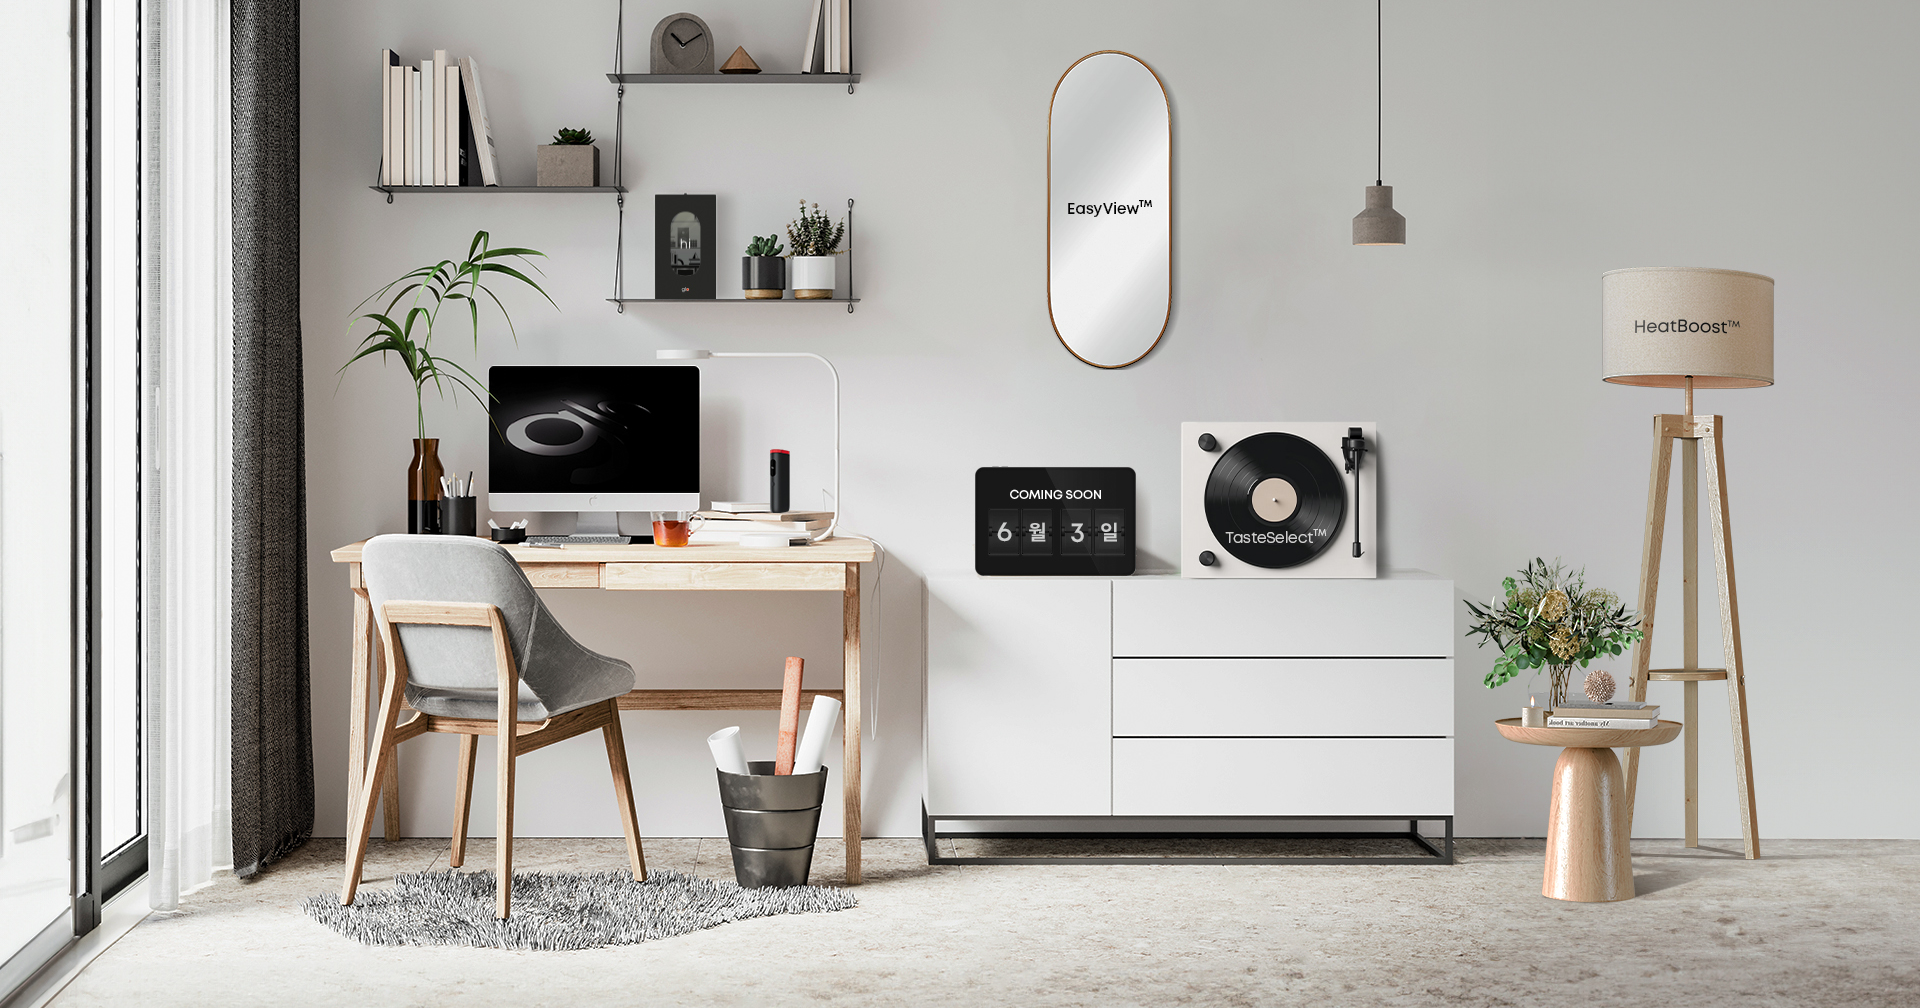
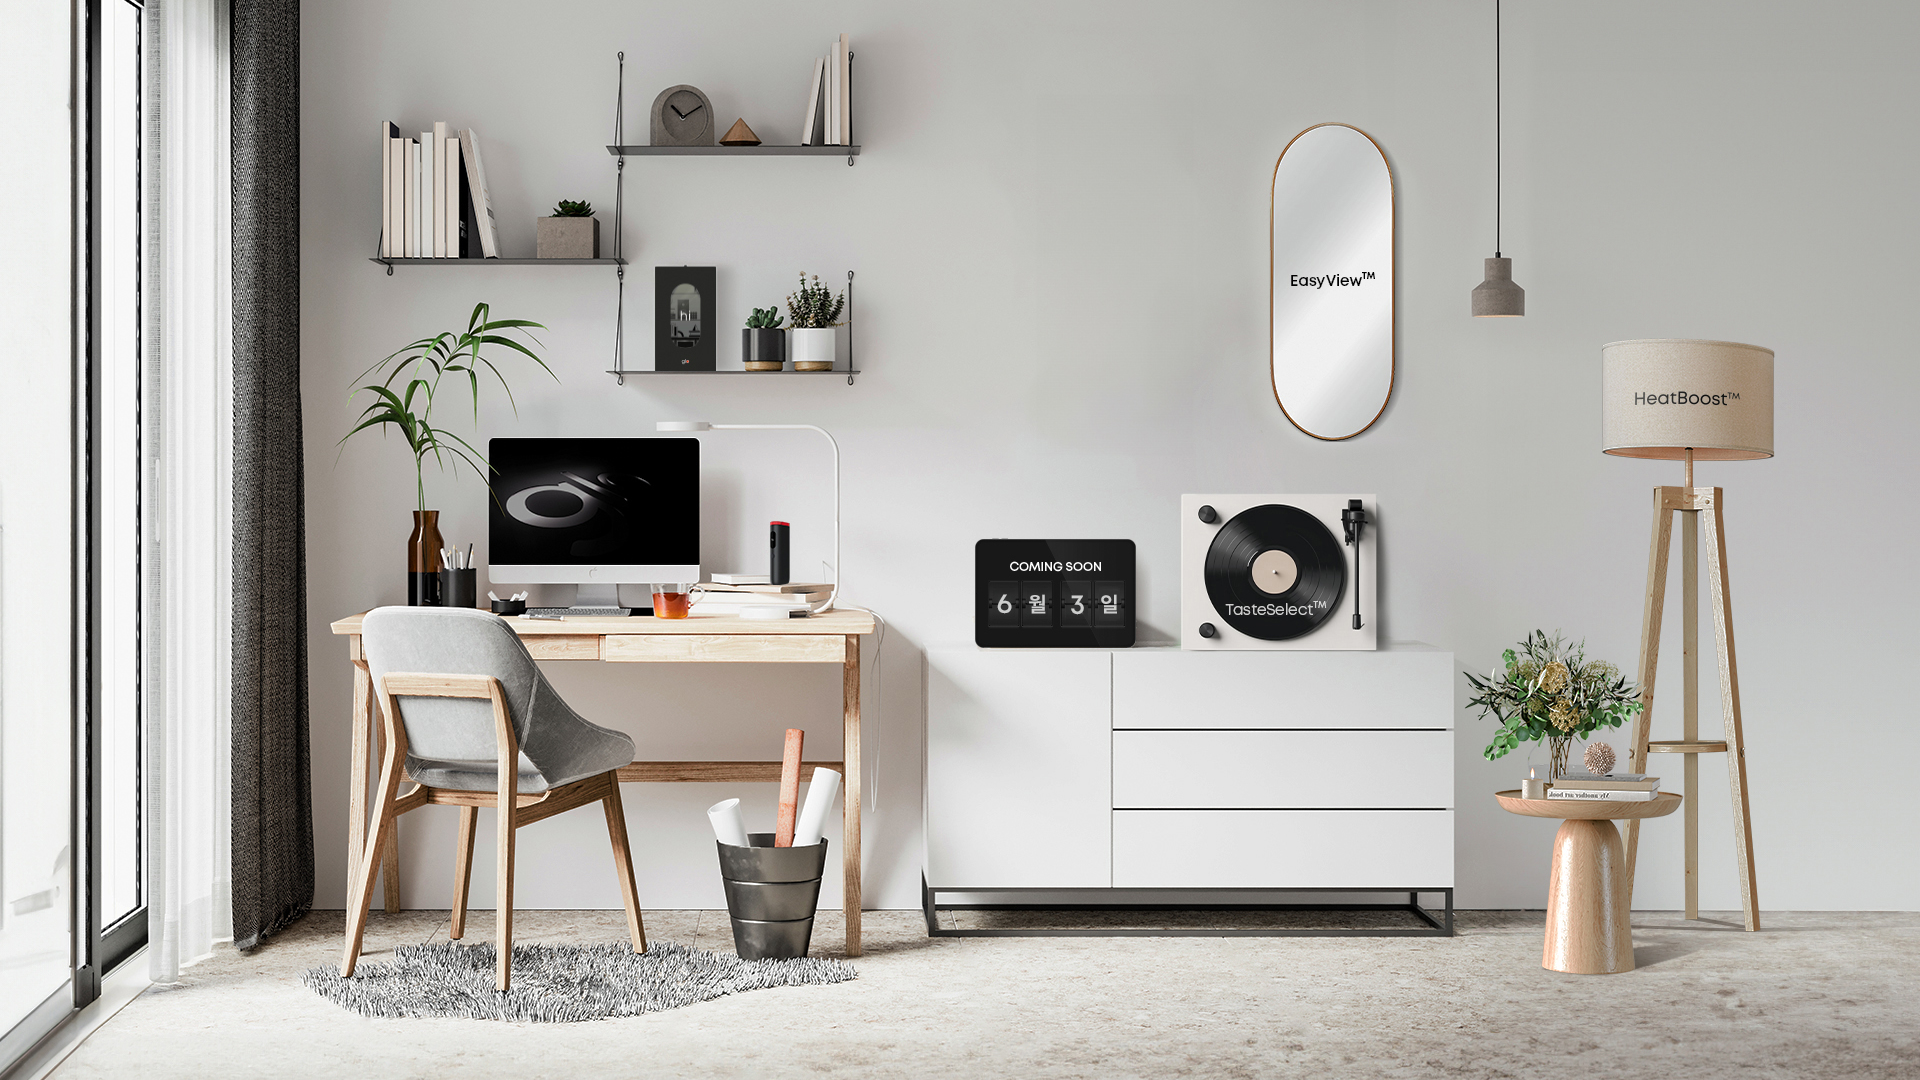
이미지수정, 안드터치안되는거 수정, 돌아가기 버튼 추가

diff --git a/css/style.css b/css/style.css
@@ -49,13 +49,22 @@ body {
     }
 
 main{
-    position: relative;
+    /* position: relative; */
     width: 100vw;
     height: 100vh;
+}
+.main_wrap{
+    text-align: center;
+    position: absolute;
+    top: 0;
+    right: 0;
+    bottom: 0;
+    left: 0;
 }
 main img{
     width: 100%;
     height: 100%;
+    object-fit: cover;
 }
 
 .title{
@@ -73,6 +82,7 @@ main img{
 
 }
 #spotlight {
+    touch-action: none;
     position: fixed;
     top: 0;
     left: 0;
@@ -91,18 +101,23 @@ main img{
 
     -webkit-mask-composite: destination-out;
     mask-composite: exclude;
+    
 }
 #spotlight.all{
     opacity: 0;
     transition: 1.5s;
 }
 
+.kvi_wrap{
+    width: 100%;
+    height: auto;
+}
 .kvi{
     position: absolute;
-    top: 36.5%;
+    top: 39.5%;
     left: 25.6%;
-    width: 203px;
-    height: 113px;
+    width: 10.5vw;
+    height: 6vw;
 }
 video{
     width: 100%;
@@ -140,7 +155,10 @@ video{
     background-color: #F6714F;
     color: #fff;
 }
-.viewAll{
+.view_wrap{
+    text-align: center;
+}
+.viewAll, .viewBack{
     width: 160px;
     font-size: 24px;
     color: #fff;
@@ -148,6 +166,11 @@ video{
     align-items: center;
     justify-content: center;
     margin: 0 auto;
+}
+.viewBack{
+    text-align: center;
+    display: none;
+
 }
 .icon_right{
     display: inline-block;
@@ -189,6 +212,19 @@ video{
     background: url(../images/btn_X.png) no-repeat center / cover;
 }
 
+.pop_room{
+    position: absolute;
+    top: 0;
+    left: 0;
+    width: 100%;
+    height: 100%;
+    z-index: 30;
+}
+.pop_room img{
+    width: 100%;
+    height: 100%;
+}
+
 @media screen and (max-width: 1620px) {
     :root {
         --size: max(10vw, 210px);
@@ -202,6 +238,16 @@ video{
     .kvi{
         width: 10.8vw;
         height: 6vw;
+        top: 41.5%;
+        left: 25%;
+    }
+}
+@media screen and (max-width: 1480px) {
+    .kvi{
+        width: 12vw;
+        height: 7vw;
+        top: 41.5%;
+        left: 23.3vw;
     }
 }
 @media screen and (max-width: 1280px) {
@@ -219,7 +265,23 @@ video{
         left: 50%;
         transform: translate(-50%, -50%);
     }
+    .kvi{
+        width: 13vw;
+        height: 7.8vw;
+        top: 40.8%;
+        left: 19.8vw;
+    }
 }
+@media screen and (max-width: 1080px) {
+    .kvi{
+        width: 16.5vw;
+        height: 9.5vw;
+        top: 41%;
+        left: 11.5vw;
+    }
+}
+
+
 @media screen and (max-width: 768px) {
     :root {
         --size: max(20vw, 310px);
@@ -241,7 +303,7 @@ video{
         padding-top: 44px;
         line-height: 1.5;
     }
-    .title p:after{
+    /* .title p:after{
         content: '';
         display: block;
         width: 2px;
@@ -251,7 +313,7 @@ video{
         bottom: -40px;
         left: 50%;
         transform: translateX(-50%);
-    }
+    } */
     #spotlight{
         mask-size: 20vw, 100%;
         mask-position: calc(var(--x) - var(--size) / 3.8)
@@ -259,7 +321,7 @@ video{
     left top;
     }
     .kvi{
-        top: 55.5%;
+        top: 52%;
         left: 29%;
         width: 34.3vw;
         height: 20vw;
@@ -278,7 +340,7 @@ video{
         line-height: 44px;
         letter-spacing: -1.5px;
     }
-    .viewAll{
+    .viewAll, .viewBack{
         font-size: 16px;
     }
     .icon_right{
@@ -307,6 +369,12 @@ video{
         width: 84vw;
         height: 170vw;
     }
+    .kvi {
+        top: 51.8%;
+        left: 29.8%;
+        width: 32.9vw;
+        height: 19.7vw;
+    }
 }
 @media screen and (max-width: 390px) {
     :root {
@@ -319,11 +387,23 @@ video{
     left top;
     }
     .kvi{
-        width: 34vw;
-        height: 22vw;
+        top: 51.8%;
+        left: 23.8%;
+        width: 43vw;
+        height: 25vw;
     }
     .pop_wrap{
         width: 84vw;
         height: 140vw;
     }
+}
+@media screen and (max-width: 375px) {
+    
+    .kvi{
+        top: 51.2%;
+        left: 28.2%;
+        width: 36vw;
+        height: 21vw;
+    }
+    
 }

diff --git a/index.html b/index.html
@@ -10,8 +10,10 @@
 </head>
 <body>
     <main>
-        <img src="images/main.png" alt="메인 이미지" class="pc_only">
-        <img src="images/main_m.png" alt="메인 이미지" class="mo_only">
+        <div class="main_wrap">
+            <img src="images/main.png" alt="메인 이미지" class="pc_only">
+            <img src="images/main_m2.png" alt="메인 이미지" class="mo_only">
+        </div>
     </main>
     <div class="title">
         <img src="images/hyper_pro_logo.png" alt="하이퍼 프로 로고">
@@ -23,28 +25,31 @@
             <source src="images/HyperPro_UNIBODY_Teaser Animation_No text_maste.mp4" type="video/mp4">
         </video>
     </div>
+
     <div id="spotlight" draggable="true"></div>
+
     <div class="btn_wrap">
-        <a href="#" class="viewAll">방 전체보기 <i class="icon_right"></i></a>
+        <div class="view_wrap">
+            <a href="#" class="viewAll">방 전체보기 <i class="icon_right"></i></a>
+            <a href="#" class="viewBack">돌아가기 <i class="icon_right"></i></a>
+        </div>
         <div class="btn_inner">
             <a href="#" class="btn line" id="show">티저영상 보기</a>
             <a href="#" class="btn full">메인 페이지로 가기</a>
         </div>
-        
     </div>
 
     <div class="popup">
         <div class="black_bg"></div>
         <div class="pop_wrap">
             <a href="#" class="btn_close"></a>
-            <video autoplay loop muted playsinline class="pc_only popVideo">
+            <video autoplay loop playsinline class="pc_only popVideo">
                 <source src="images/HyperPro_UNIBODY_Teaser Animation_No text_maste.mp4" type="video/mp4">
             </video>
             <video autoplay loop muted playsinline  class="mo_only popVideo">
                 <source src="images/HyperPro_UNIBODY_Teaser Animation (Vertical)_No text-출시날짜 추가.mp4" type="video/mp4">
             </video>
         </div>
-        
     </div>
 </body>
 

diff --git a/js/teaser.js b/js/teaser.js
@@ -1,9 +1,11 @@
 
-
+/* spotlight */
 var root = document.querySelector(":root");
+$('#spotlight').ondragstart = () => false
 function spotlight(e) {
-  root.style.setProperty("--x", e.pageX + "px");
-  root.style.setProperty("--y", e.pageY + "px");
+    e.preventDefault();
+    root.style.setProperty("--x", e.pageX + "px");
+    root.style.setProperty("--y", e.pageY + "px");
 }
 window.addEventListener("pointermove", spotlight);
 window.addEventListener("pointerdown", spotlight);
@@ -11,8 +13,15 @@ window.addEventListener("pointerdown", spotlight);
 /* 방 전체보기 */
 $('.viewAll').on('click', function(){
     $('#spotlight').addClass('all');
+    $('.viewBack').show();
+    $('.viewAll').hide();
 })
-
+$('.viewBack').on('click', function(){
+    $('.viewBack').hide();
+    $('#spotlight').removeClass('all');
+    $('.viewAll').show();
+    
+})
 
 /* popup */
 
